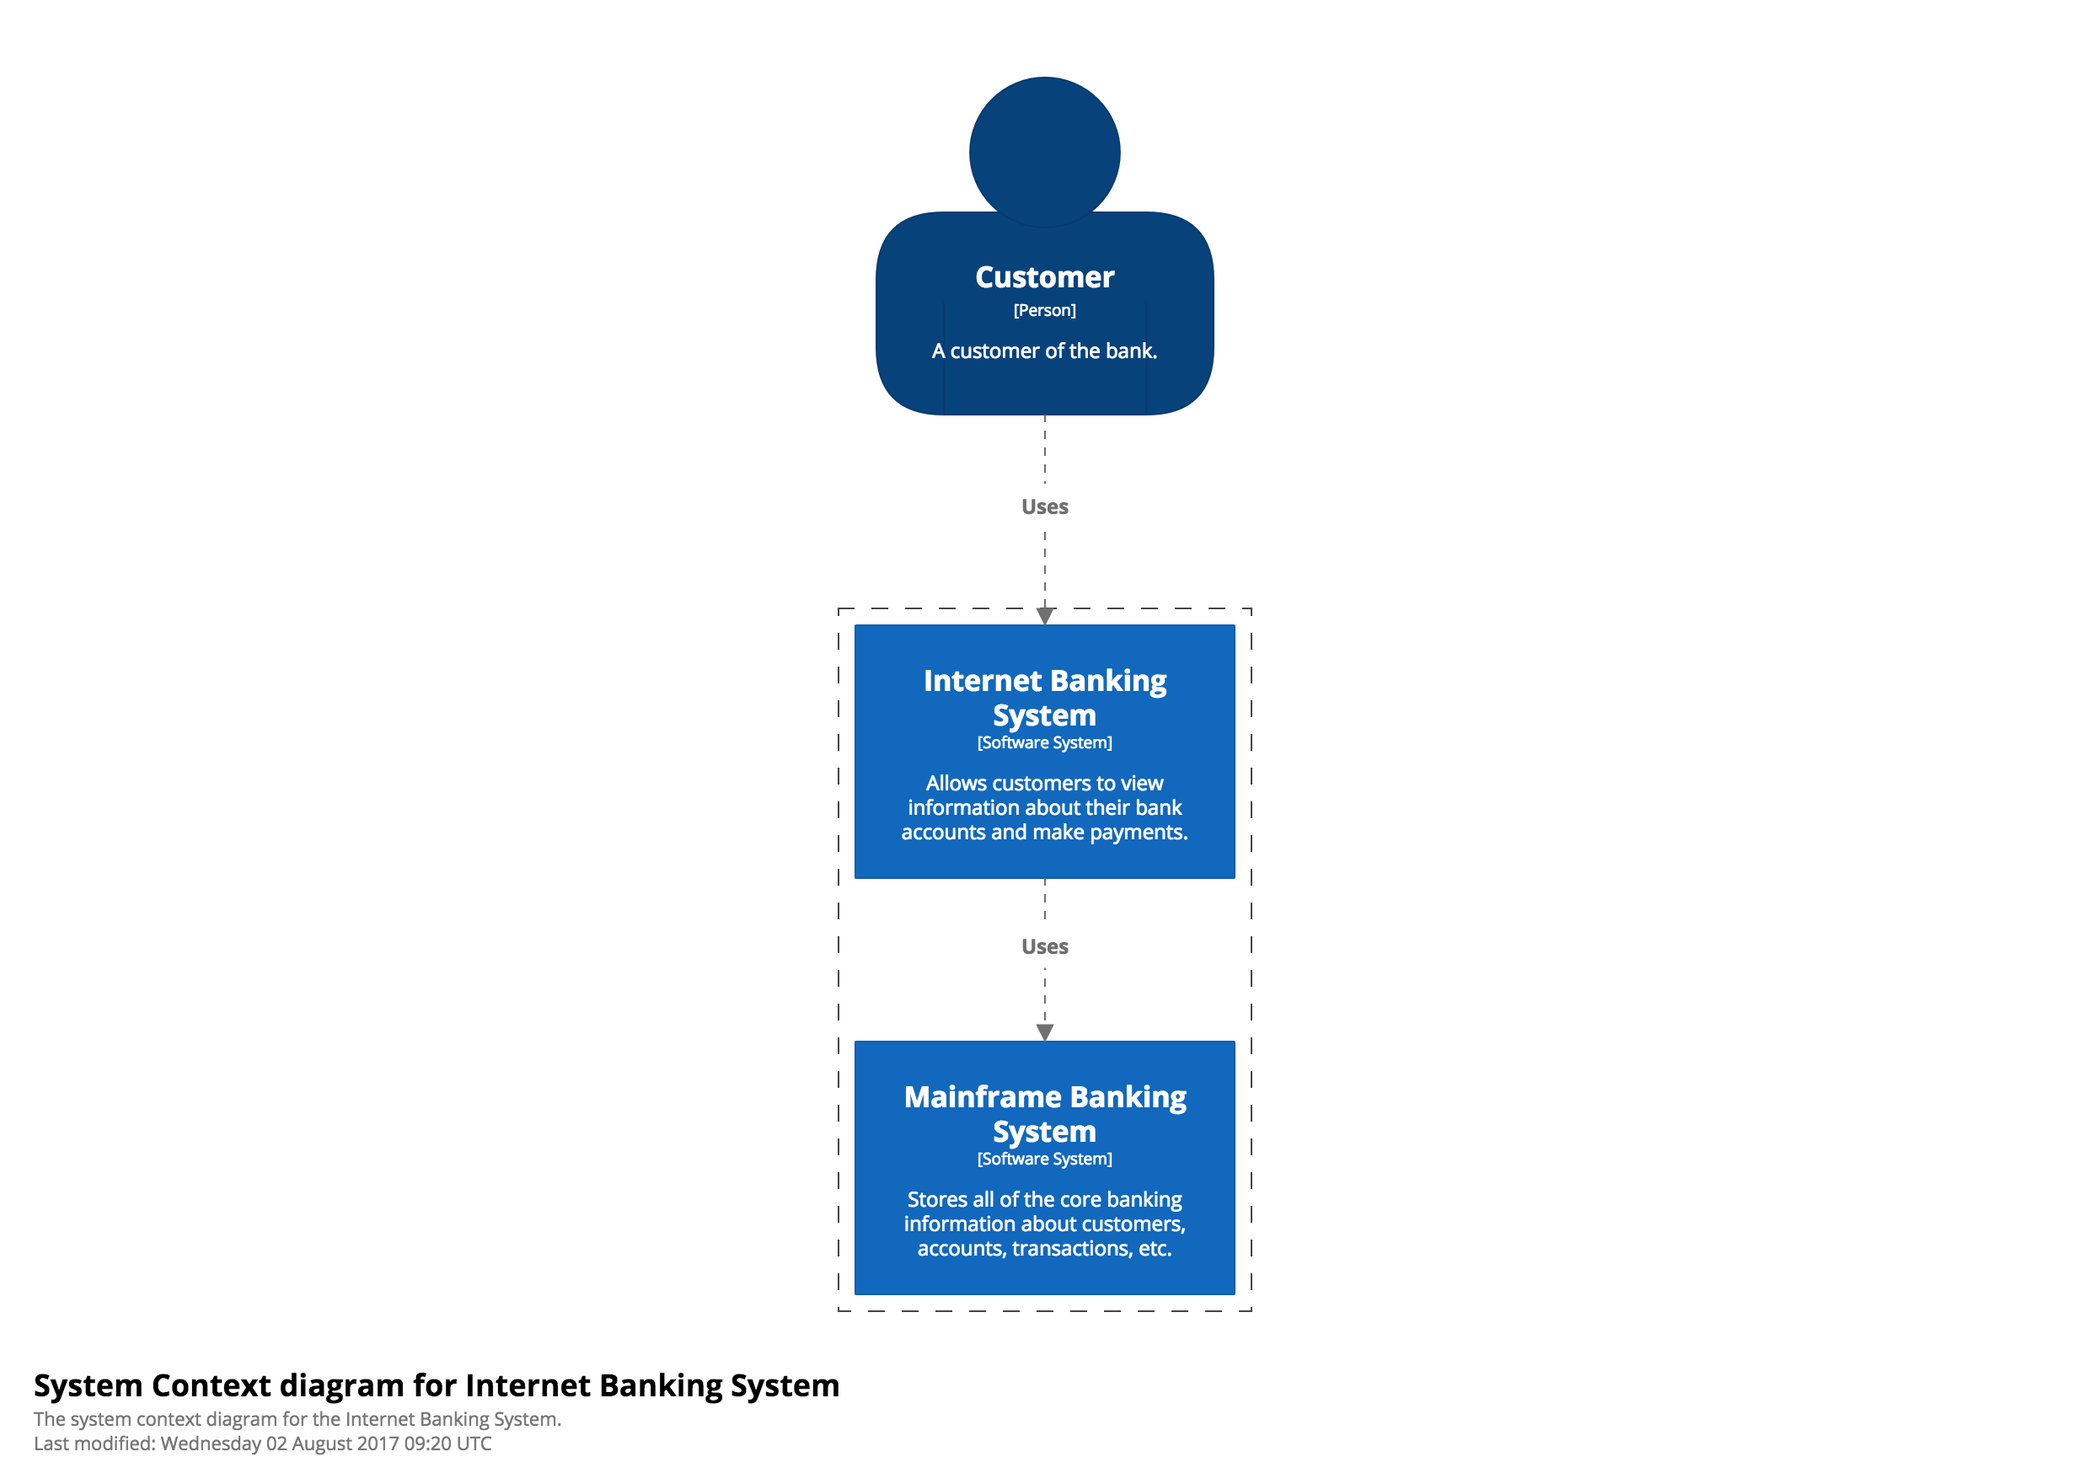
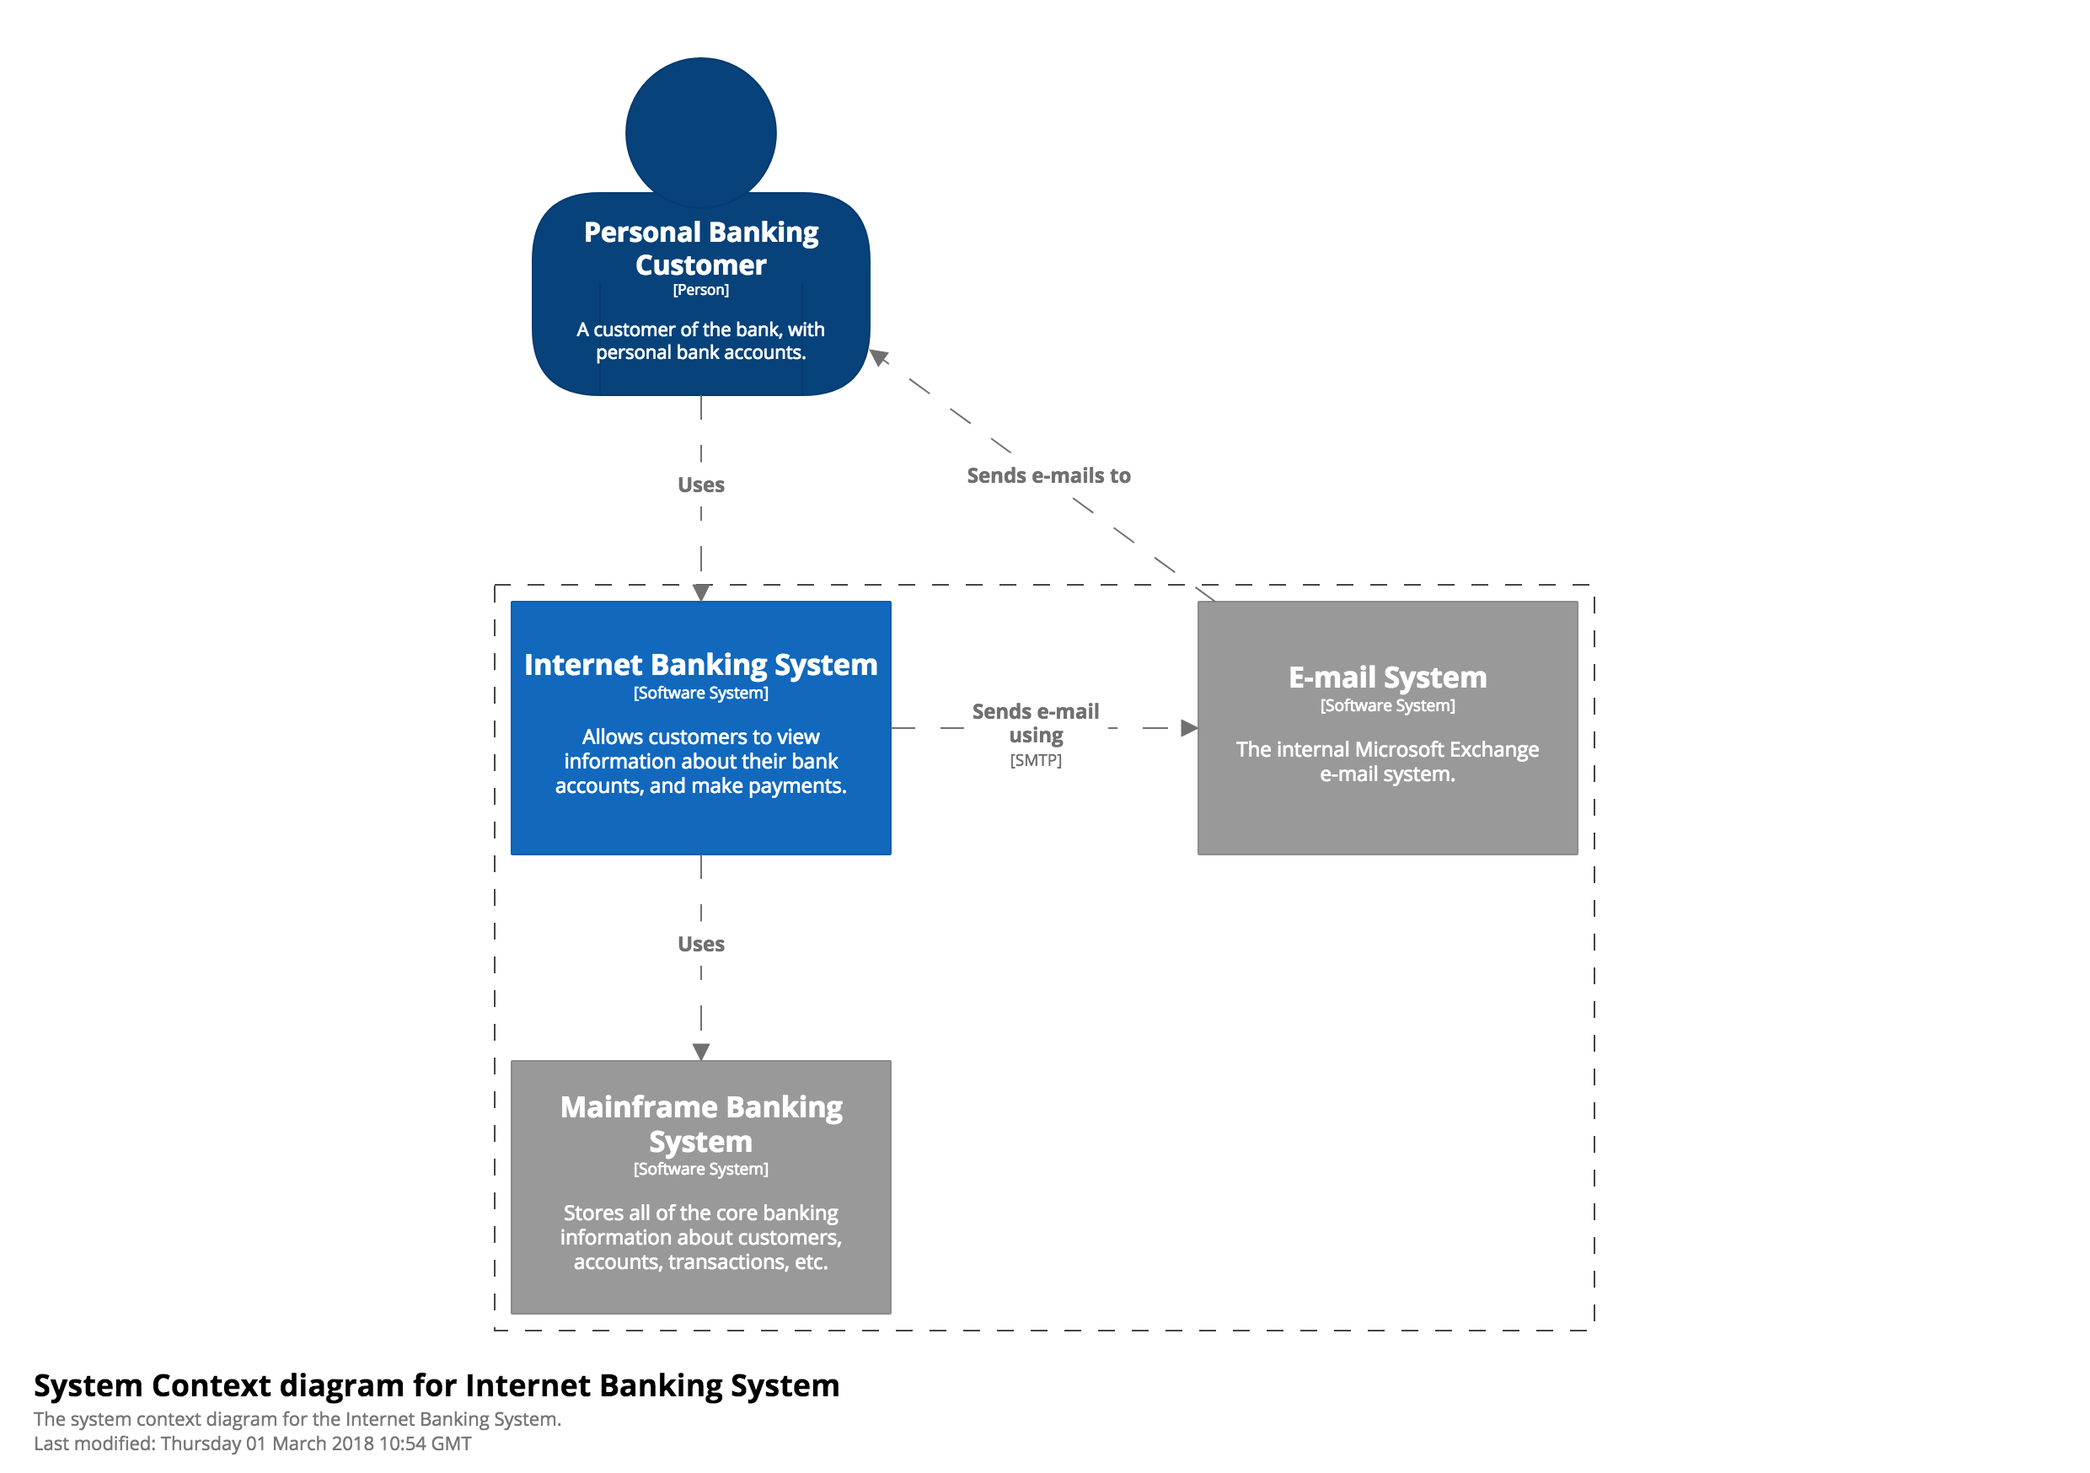
Updated the Big Bank plc example diagrams, plus added some narrative for the System Context and Container examples.

diff --git a/index.html b/index.html
@@ -190,11 +190,14 @@
                 <div class="row">
                     <div class="col-xs-5 centered">
                         <p style="margin-top: 20px">
-                            <a href="./img/diagram-system-context.png"><img src="./img/diagram-system-context.png" alt="A System Context diagram" class="img-thumbnail" /></a>
+                            <a href="./img/bigbankplc-SystemContext.png"><img src="./img/bigbankplc-SystemContext.png" alt="A System Context diagram" class="img-thumbnail" /></a>
                         </p>
                         <p class="centered">
-                            <a href="./img/diagram-system-context-key.png"><img src="./img/diagram-system-context-key.png" alt="A diagram key" class="img-thumbnail" style="width: 80%" /></a>
+                            <a href="./img/bigbankplc-SystemContext-key.png"><img src="./img/bigbankplc-SystemContext-key.png" alt="A diagram key" class="img-thumbnail" style="width: 80%" /></a>
                         </p>
+                        <button type="button" class="btn btn-default" data-toggle="modal" data-target="#systemContextDiagramModal">
+                            See example diagram, key and narrative
+                        </button>
                     </div>
                     <div class="col-xs-7">
                         <h3>Level 1: System Context diagram</h3>
@@ -227,17 +230,20 @@
                 <div class="row">
                     <div class="col-xs-5 centered">
                         <p style="margin-top: 20px">
-                            <a href="./img/diagram-container.png"><img src="./img/diagram-container.png" alt="A Container diagram" class="img-thumbnail" /></a>
+                            <a href="./img/bigbankplc-Containers.png"><img src="./img/bigbankplc-Containers.png" alt="A Container diagram" class="img-thumbnail" /></a>
                         </p>
                         <p class="centered">
-                            <a href="./img/diagram-container-key.png"><img src="./img/diagram-container-key.png" alt="A diagram key" class="img-thumbnail" style="width: 80%" /></a>
+                            <a href="./img/bigbankplc-Containers-key.png"><img src="./img/bigbankplc-Containers-key.png" alt="A diagram key" class="img-thumbnail" style="width: 80%" /></a>
                         </p>
+                        <button type="button" class="btn btn-default" data-toggle="modal" data-target="#containerDiagramModal">
+                            See example diagram, key and narrative
+                        </button>
                     </div>
                     <div class="col-xs-7">
                         <h3>Level 2: Container diagram</h3>
                         <p>
                             Once you understand how your system fits in to the overall IT environment, a really useful next step is to zoom-in to the system boundary with a Container diagram.
-                            A "container" is something like a web application, desktop application, mobile app, database, file system, etc. Essentially, a container is a separately deployable unit that executes code or stores data.
+                            A "container" is something like a web application, desktop application, mobile app, database, file system, etc. Essentially, a container is a separately runnable/deployable unit that executes code or stores data.
                         </p>
 
                         <p>
@@ -258,16 +264,19 @@
                         <p class="small">
                             <b>Intended audience</b>: Technical people inside and outside of the software development team; including software architects, developers and operations/support staff.
                         </p>
+                        <p class="small">
+                            <b>Notes</b>: This diagram says nothing about deployment scenarios, clustering, replication, failover, etc.
+                        </p>
                     </div>
                 </div>
 
                 <div class="row">
                     <div class="col-xs-5 centered">
                         <p style="margin-top: 20px">
-                            <a href="./img/diagram-component.png"><img src="./img/diagram-component.png" alt="A Component diagram" class="img-thumbnail" /></a>
+                            <a href="./img/bigbankplc-Components.png"><img src="./img/bigbankplc-Components.png" alt="A Component diagram" class="img-thumbnail" /></a>
                         </p>
                         <p class="centered">
-                            <a href="./img/diagram-component-key.png"><img src="./img/diagram-component-key.png" alt="A diagram key" class="img-thumbnail" style="width: 80%" /></a>
+                            <a href="./img/bigbankplc-Components-key.png"><img src="./img/bigbankplc-Components-key.png" alt="A diagram key" class="img-thumbnail" style="width: 80%" /></a>
                         </p>
                     </div>
                     <div class="col-xs-7">
@@ -298,7 +307,7 @@
                 <div class="row">
                     <div class="col-xs-5 centered">
                         <p style="margin-top: 20px">
-                            <a href="./img/diagram-class.png"><img src="./img/diagram-class.png" alt="A UML class diagram" class="img-thumbnail" /></a>
+                            <a href="./img/bigbankplc-Classes.png"><img src="./img/bigbankplc-Classes.png" alt="A UML class diagram" class="img-thumbnail" /></a>
                         </p>
                     </div>
                     <div class="col-xs-7">
@@ -337,10 +346,10 @@
                 <div class="row">
                     <div class="col-xs-5 centered">
                         <p style="margin-top: 20px">
-                            <a href="./img/diagram-system-landscape.png"><img src="./img/diagram-system-landscape.png" alt="A System Landscape diagram" class="img-thumbnail" /></a>
+                            <a href="./img/bigbankplc-SystemLandscape.png"><img src="./img/bigbankplc-SystemLandscape.png" alt="A System Landscape diagram" class="img-thumbnail" /></a>
                         </p>
                         <p class="centered">
-                            <a href="./img/diagram-system-landscape-key.png"><img src="./img/diagram-system-landscape-key.png" alt="A diagram key" class="img-thumbnail" style="width: 80%" /></a>
+                            <a href="./img/bigbankplc-SystemLandscape-key.png"><img src="./img/bigbankplc-SystemLandscape-key.png" alt="A diagram key" class="img-thumbnail" style="width: 80%" /></a>
                         </p>
                     </div>
                     <div class="col-xs-7">
@@ -370,10 +379,10 @@
                 <div class="row">
                     <div class="col-xs-5 centered">
                         <p style="margin-top: 20px">
-                            <a href="./img/diagram-dynamic.png"><img src="./img/diagram-dynamic.png" alt="A dynamic diagram" class="img-thumbnail" /></a>
+                            <a href="./img/bigbankplc-SignIn.png"><img src="./img/bigbankplc-SignIn.png" alt="A dynamic diagram" class="img-thumbnail" /></a>
                         </p>
                         <p class="centered">
-                            <a href="./img/diagram-dynamic-key.png"><img src="./img/diagram-dynamic-key.png" alt="A diagram key" class="img-thumbnail" style="width: 80%" /></a>
+                            <a href="./img/bigbankplc-SignIn-key.png"><img src="./img/bigbankplc-SignIn-key.png" alt="A diagram key" class="img-thumbnail" style="width: 80%" /></a>
                         </p>
                     </div>
                     <div class="col-xs-7">
@@ -400,10 +409,10 @@
                 <div class="row">
                     <div class="col-xs-5 centered">
                         <p style="margin-top: 20px">
-                            <a href="./img/diagram-deployment.png"><img src="./img/diagram-deployment.png" alt="A deployment diagram" class="img-thumbnail" /></a>
+                            <a href="./img/bigbankplc-LiveDeployment.png"><img src="./img/bigbankplc-LiveDeployment.png" alt="A deployment diagram" class="img-thumbnail" /></a>
                         </p>
                         <p class="centered">
-                            <a href="./img/diagram-deployment-key.png"><img src="./img/diagram-deployment-key.png" alt="A diagram key" class="img-thumbnail" style="width: 80%" /></a>
+                            <a href="./img/bigbankplc-LiveDeployment-key.png"><img src="./img/bigbankplc-LiveDeployment-key.png" alt="A diagram key" class="img-thumbnail" style="width: 80%" /></a>
                         </p>
                     </div>
                     <div class="col-xs-7">
@@ -702,7 +711,7 @@
                             </ul>
                         </td>
                         <td class="centered">
-                            <a href="./img/diagram-system-context.png"><img src="./img/diagram-system-context.png" alt="A System Context diagram" class="img-thumbnail" /></a>
+                            <a href="./img/bigbankplc-SystemContext.png"><img src="./img/bigbankplc-SystemContext.png" alt="A System Context diagram" class="img-thumbnail" /></a>
                         </td>
                     </tr>
         
@@ -717,7 +726,7 @@
                             </ul>
                         </td>
                         <td class="centered">
-                            <a href="./img/diagram-container.png"><img src="./img/diagram-container.png" alt="A Container diagram" class="img-thumbnail" /></a>
+                            <a href="./img/bigbankplc-Containers.png"><img src="./img/bigbankplc-Containers.png" alt="A Container diagram" class="img-thumbnail" /></a>
                         </td>
                     </tr>
         
@@ -733,7 +742,7 @@
                             </ul>
                         </td>
                         <td class="centered">
-                            <a href="./img/diagram-component.png"><img src="./img/diagram-component.png" alt="A Component diagram" class="img-thumbnail" /></a>
+                            <a href="./img/bigbankplc-Components.png"><img src="./img/bigbankplc-Components.png" alt="A Component diagram" class="img-thumbnail" /></a>
                         </td>
                     </tr>
 
@@ -1244,8 +1253,76 @@
             </p>
             </div>
         </div>
-
     </div>
 
+    <div class="modal fade" id="systemContextDiagramModal" tabindex="-1" role="dialog" aria-labelledby="systemContextDiagramModalLabel">
+        <div class="modal-dialog" role="document">
+            <div class="modal-content">
+            <div class="modal-header">
+                <button type="button" class="close" data-dismiss="modal" aria-label="Close"><span aria-hidden="true">&times;</span></button>
+                <h4 class="modal-title" id="systemContextDiagramModalLabel">Level 1: System Context diagram</h4>
+            </div>
+            <div class="modal-body">
+                <p>
+                    This is an example System Context diagram for a fictional Internet Banking System. It shows the people who use it, and the other software systems that the Internet Banking System has a relationship with.
+                    Personal Customers of the bank use the Internet Banking System to view information about their bank accounts, and to make payments.
+                    The Internet Banking System itself uses the bank's existing Mainframe Banking System to do this, and uses the bank's existing E-mail System to send e-mails to customers.
+                </p>       
+                <p>
+                    <img src="./img/bigbankplc-SystemContext.png" alt="A System Context diagram" class="img-thumbnail" />
+                </p>
+                <p>
+                    The dashed line represents the boundary of the bank, to illustrate what's inside vs what's outside of the bank.
+                    A colour coding has been used to indicate which software systems exist already (the grey boxes).
+                </p>     
+                <p class="centered">
+                    <img src="./img/bigbankplc-SystemContext-key.png" alt="A diagram key" class="img-thumbnail" style="width: 80%" />
+                </p>
+            </div>
+            <div class="modal-footer">
+                <button type="button" class="btn btn-default" data-dismiss="modal">Close</button>
+            </div>
+            </div>
+        </div>
+    </div>
+
+    <div class="modal fade" id="containerDiagramModal" tabindex="-1" role="dialog" aria-labelledby="scontainerDiagramModalLabel">
+        <div class="modal-dialog" role="document">
+            <div class="modal-content">
+            <div class="modal-header">
+                <button type="button" class="close" data-dismiss="modal" aria-label="Close"><span aria-hidden="true">&times;</span></button>
+                <h4 class="modal-title" id="containerDiagramModalLabel">Level 2: Container diagram</h4>
+            </div>
+            <div class="modal-body">
+                <p>
+                    This is an example Container diagram for a fictional Internet Banking System. It shows that the Internet Banking System is made up of five containers:
+                    a server-side Web Application, a Single-Page Application, a Mobile App, a server-side API Application, and a Database.
+                    The Web Application is a Java/Spring MVC web application that simply serves static content (HTML, CSS and JavaScript), including the content that makes up the Single-Page Application.
+                    The Single-Page Application is an Angular application that runs in the customer's web browser, providing all of the Internet banking features.
+                    Alternatively, customers can use the cross-platform Xamarin Mobile App, to access a subset of the Internet banking functionality.
+                </p>
+                <p>
+                    Both the Single-Page Application and Mobile App use a JSON/HTTPS API, which is provided by another Java/Spring MVC application running on the server.
+                    The API Application gets user information from the Database (a relational database schema).
+                    The API Application also communicates with the existing Mainframe Banking System, using a propreitary XML/HTTPS interface, to get information about bank accounts or make transactions. 
+                    The API Application also uses the existing E-mail System if it needs to send e-mails to customers.
+                </p>       
+                <p>
+                    <img src="./img/bigbankplc-Containers.png" alt="A Container diagram" class="img-thumbnail" />
+                </p>
+                <p>
+                    The dashed line represents the boundary of the Internet Banking System, showing the containers (light blue) inside it. Additionally, a cylinder shape has been used to represent the database.
+                </p>     
+                <p class="centered">
+                    <img src="./img/bigbankplc-Containers-key.png" alt="A diagram key" class="img-thumbnail" style="width: 80%" />
+                </p>
+            </div>
+            <div class="modal-footer">
+                <button type="button" class="btn btn-default" data-dismiss="modal">Close</button>
+            </div>
+            </div>
+        </div>
+    </div>
+        
 </body>
 </html>

diff --git a/css/c4model.css b/css/c4model.css
@@ -151,3 +151,14 @@ a:hover {
     margin-left: 10px;
     margin-right: 10px;
 }
+.modal-dialog {
+    width: 95%;
+    height: 100%;
+    padding: 0;
+    margin: auto;
+}
+.modal-content {
+    height: 100%;
+    min-height: 100%;
+    height: auto;
+}
